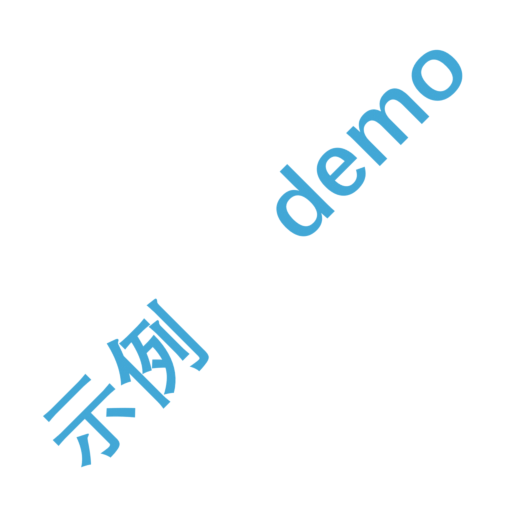
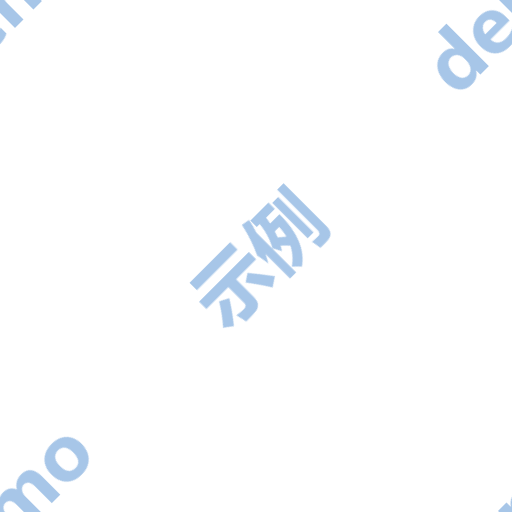
删除不使用资源

diff --git a/src/App.css b/src/App.css
@@ -1,5 +1,5 @@
 :root {
-  --bg-size: 160px;
+  --bg-size: 180px;
 }
 
 #root {
@@ -18,9 +18,8 @@
   width: calc(100% + var(--bg-size));
   height: calc(100% + var(--bg-size));
 
-  background:
-    linear-gradient(#fffd, #fffd),
-    url(/src/assets/demo_repeat_bg.png) 0 / var(--bg-size);
+  background: url(/src/assets/demo_repeat_bg.png) 0 / var(--bg-size);
+  filter: opacity(0.6) blur(1px);
 
   animation: bg-moving 30s linear infinite;
 }
@@ -58,7 +57,7 @@ main {
   overflow-x: hidden;
   padding: 16px;
   /* background: linear-gradient(white, blue) */
-    background-color: #e2eef755;
+  background-color: #e2eef755;
 }
 
 .canvas-container {
